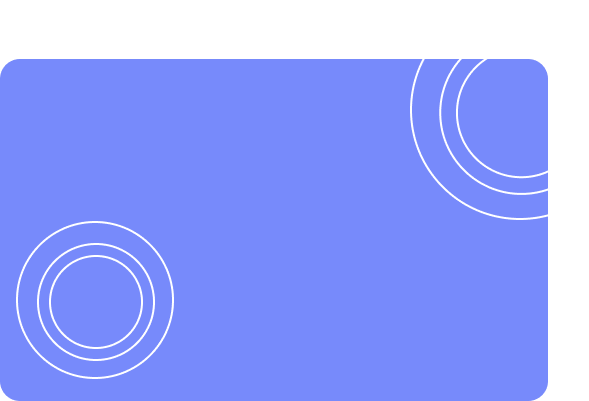
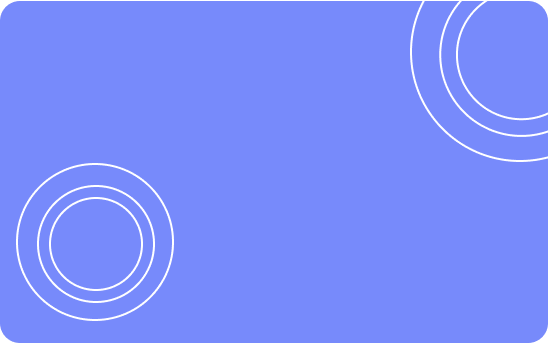
save homepage front v1

diff --git a/app/assets/stylesheets/pages/_home.scss b/app/assets/stylesheets/pages/_home.scss
@@ -5,3 +5,71 @@
   justify-content: space-between;
   box-sizing: border-box;
 }
+
+.hero-banner {
+  height: 80vh;
+  width: 100%;
+  background-image: url(rectangle.png);
+  background-repeat: no-repeat;
+  background-position: bottom;
+  margin-bottom: 2rem;
+}
+
+.hero-button {
+  width: 60%;
+  margin: 0 auto;
+}
+
+.category-container {
+  width: 100%;
+  display: flex;
+  gap: 2rem;
+  margin: 0 auto 4rem auto;
+}
+
+.sub-category {
+  width: 50%;
+  min-height: 60vh;
+  display: flex;
+  flex-direction: column;
+  gap: 2rem;
+}
+
+.partner-card {
+  height: 60%;
+  width: 100%;
+  background-image: url('partenaires.png');
+  background-repeat: no-repeat;
+  background-size: cover;
+  display: flex;
+  justify-content: center;
+  align-items: center;
+  text-align: center;
+  border-radius: 16px;
+}
+.engagement-card {
+  height: 100%;
+  width: 50%;
+  min-height: 60vh;
+  background-image: url('engagement.png');
+  background-repeat: no-repeat;
+  background-size: cover;
+  display: flex;
+  justify-content: center;
+  align-items: center;
+  text-align: center;
+  border-radius: 16px;
+}
+
+.news-card {
+  height: 40%;
+  width: 100%;
+  background-image: url('actualites.png');
+  background-repeat: no-repeat;
+  background-size: cover;
+  display: flex;
+  justify-content: center;
+  align-items: center;
+  text-align: center;
+  border-radius: 16px;
+}
